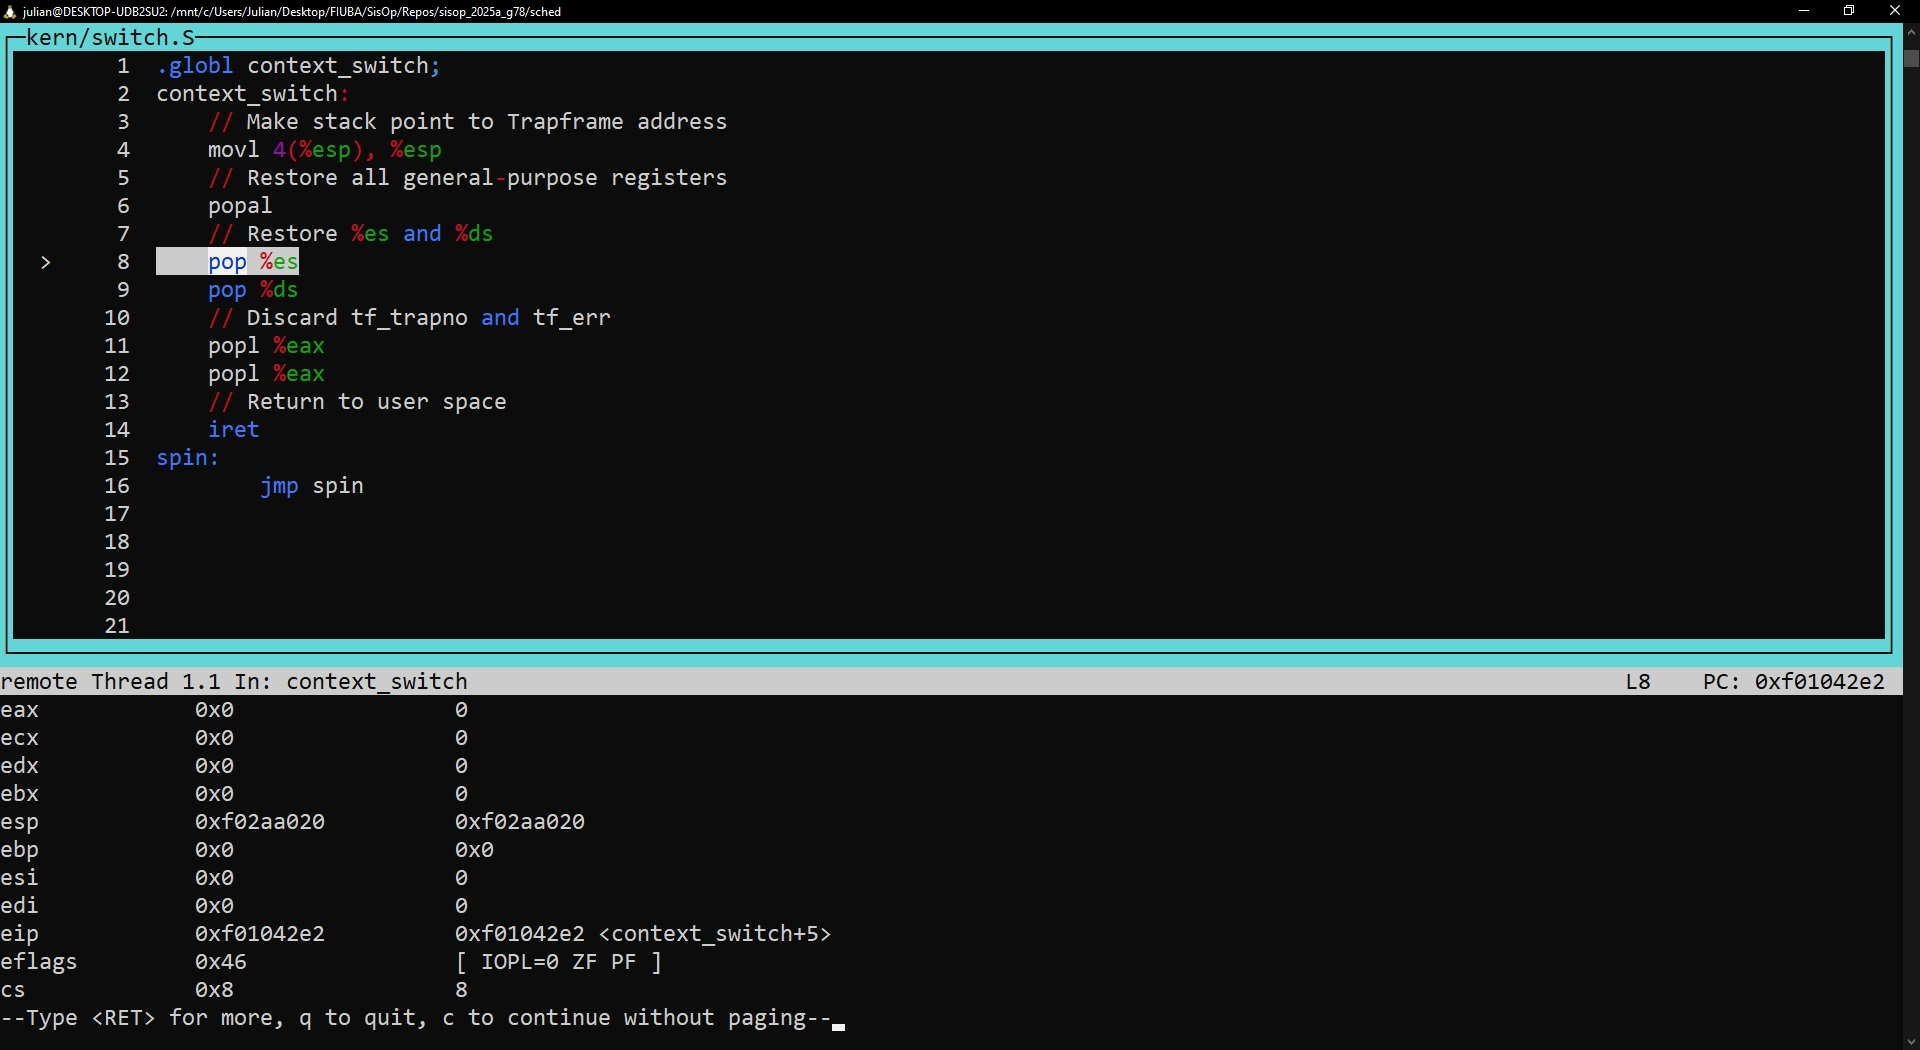
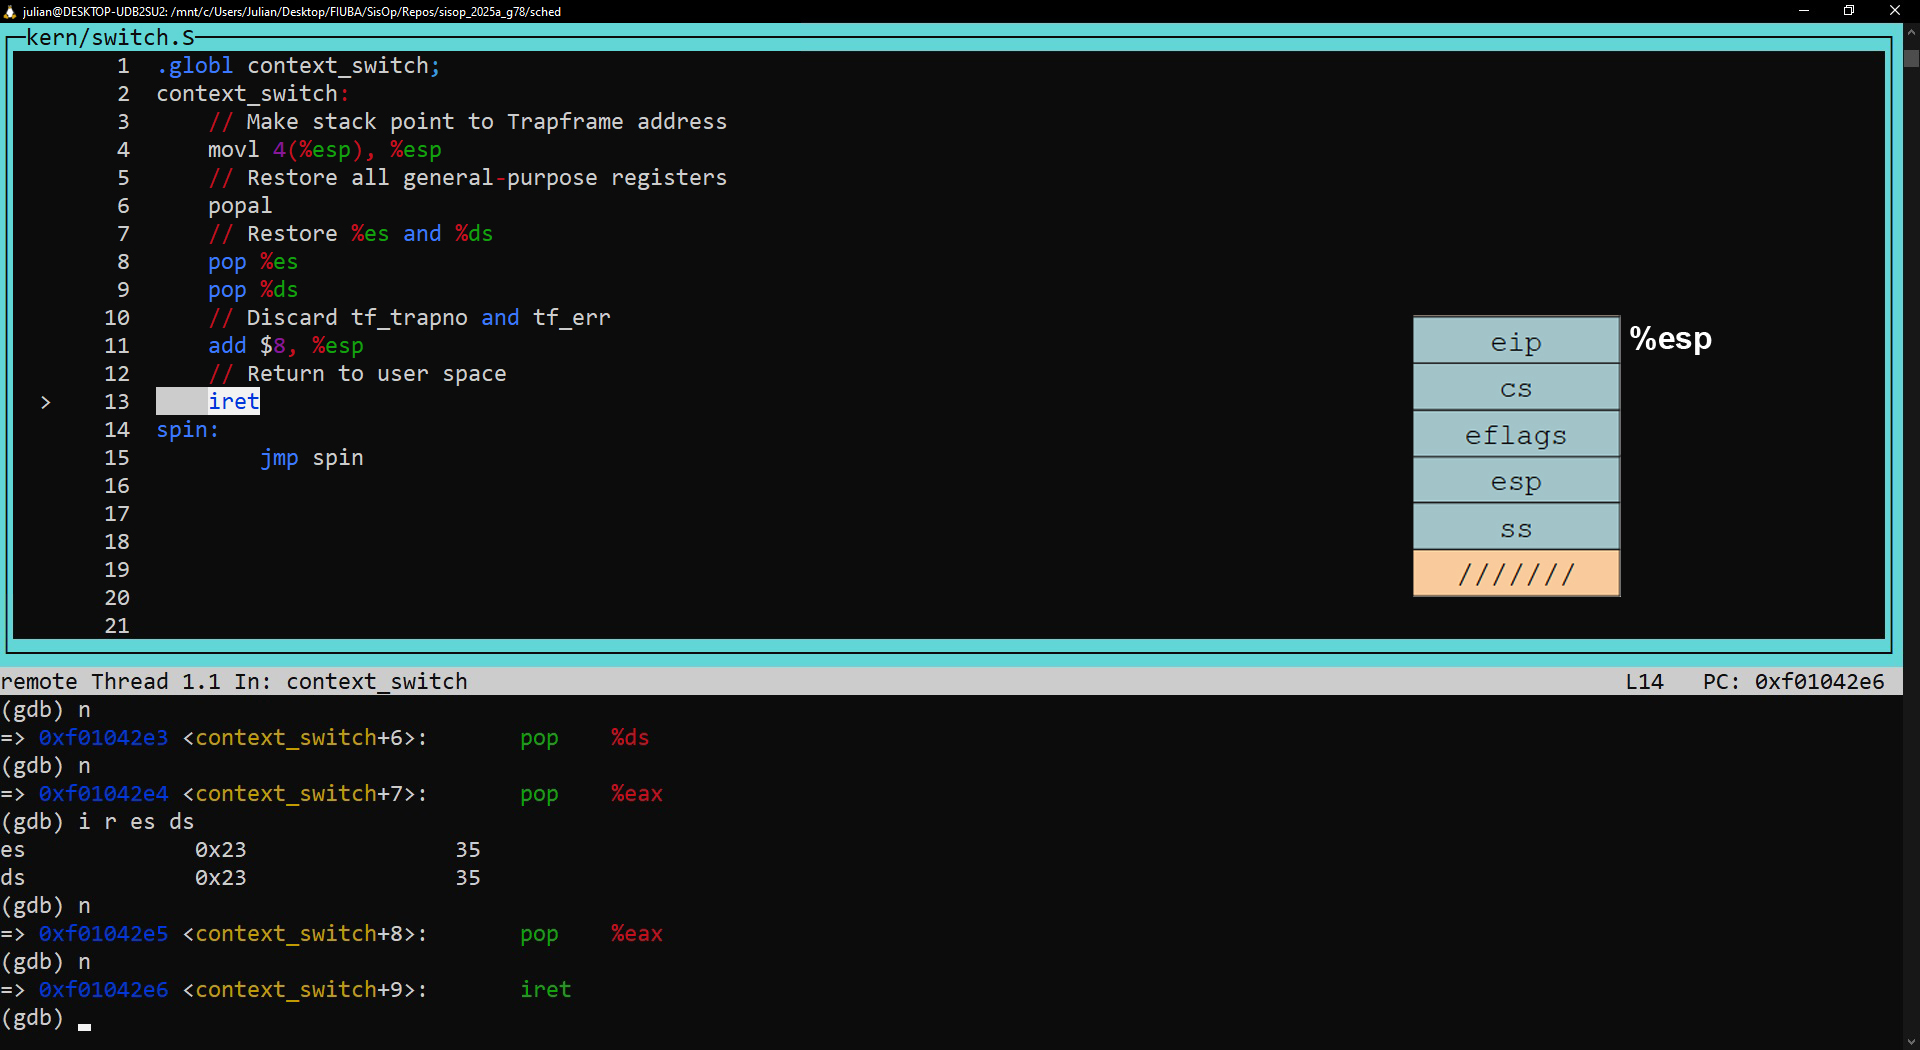
Fix: Discard stack values by advancing %esp.

diff --git a/sched/sched.md b/sched/sched.md
@@ -7,22 +7,22 @@ Se puede ver el Trapframe del entorno en la imagen:
 ![image](img_debug/1.jpg)
 
 Una vez dentro de la función ```context_switch``` en x86:
-![image](img_debug/3-edit.jpg)
+![image](img_debug/2.jpg)
 
 Se "apunta" al struct Trapframe que recibió la función (es una dirección de memoria).
 Luego de la instrucción, el stack "es" el struct.
-![image](img_debug/5-edit.jpg)
+![image](img_debug/3.jpg)
 
 Se restauran todos los registros de propósito general.
 Para simplificar, se muestran ```eax```, ```ecx```, ```edx``` y ```ebx```, todos con
 el valor esperado (en este caso 0).
-![image](img_debug/6-edit.jpg)
+![image](img_debug/4.jpg)
 
 Se restauran los registros ```es``` y ```ds```, ambos con el valor esperado (en este caso 35).
-![image](img_debug/7-edit.jpg)
+![image](img_debug/5.jpg)
 
 Se descartan los valores ```tf_trapno``` y ```err```, no necesarios para el switch.
-![image](img_debug/8-edit.jpg)
+![image](img_debug/6.jpg)
 
 Finalmente, se ejecuta ```iret``` y el switch termina de forma exitosa.
 Los registros restantes tienen los valores esperados, principalmente:
@@ -31,4 +31,4 @@ Los registros restantes tienen los valores esperados, principalmente:
 2. ```cs```: 27
 3. ```esp```: 0xEEBFE000 (4005552128 en base 10)
 
-![image](img_debug/9-edit.jpg)
+![image](img_debug/7.jpg)
